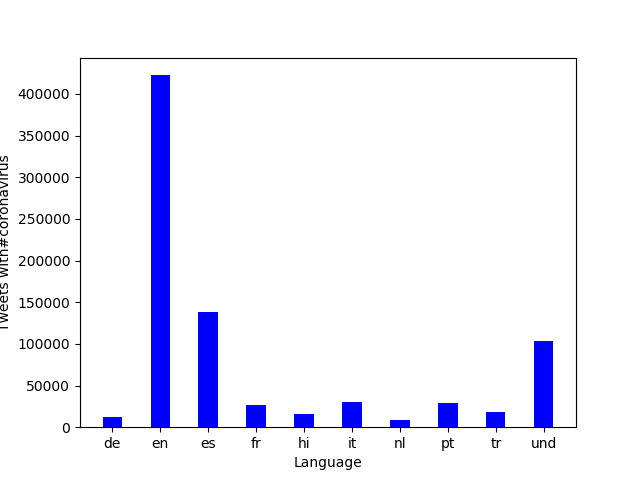
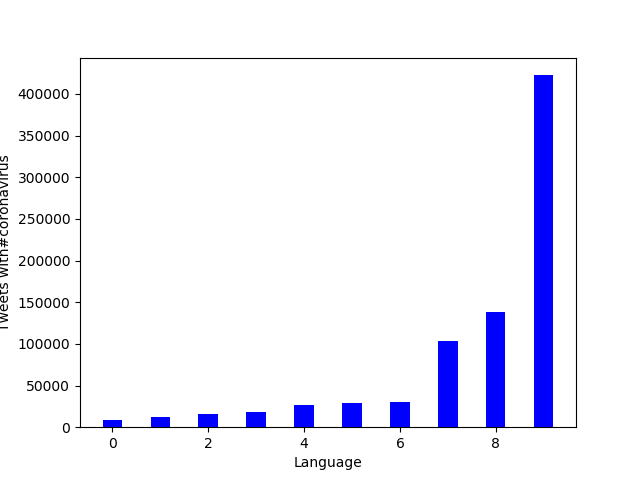
third

diff --git a/src/visualize.py b/src/visualize.py
@@ -43,7 +43,7 @@ print("Top 10" + str(top_ten_keys))
 print(f"keys = {keys}")
 print(f"values= {values}")
 
-plt.bar(keys,sorted(values), color = 'blue', width =0.4)
+plt.bar(range(len(keys)),sorted(values), color = 'blue', width =0.4)
 
 plt.show(block=True)
 
